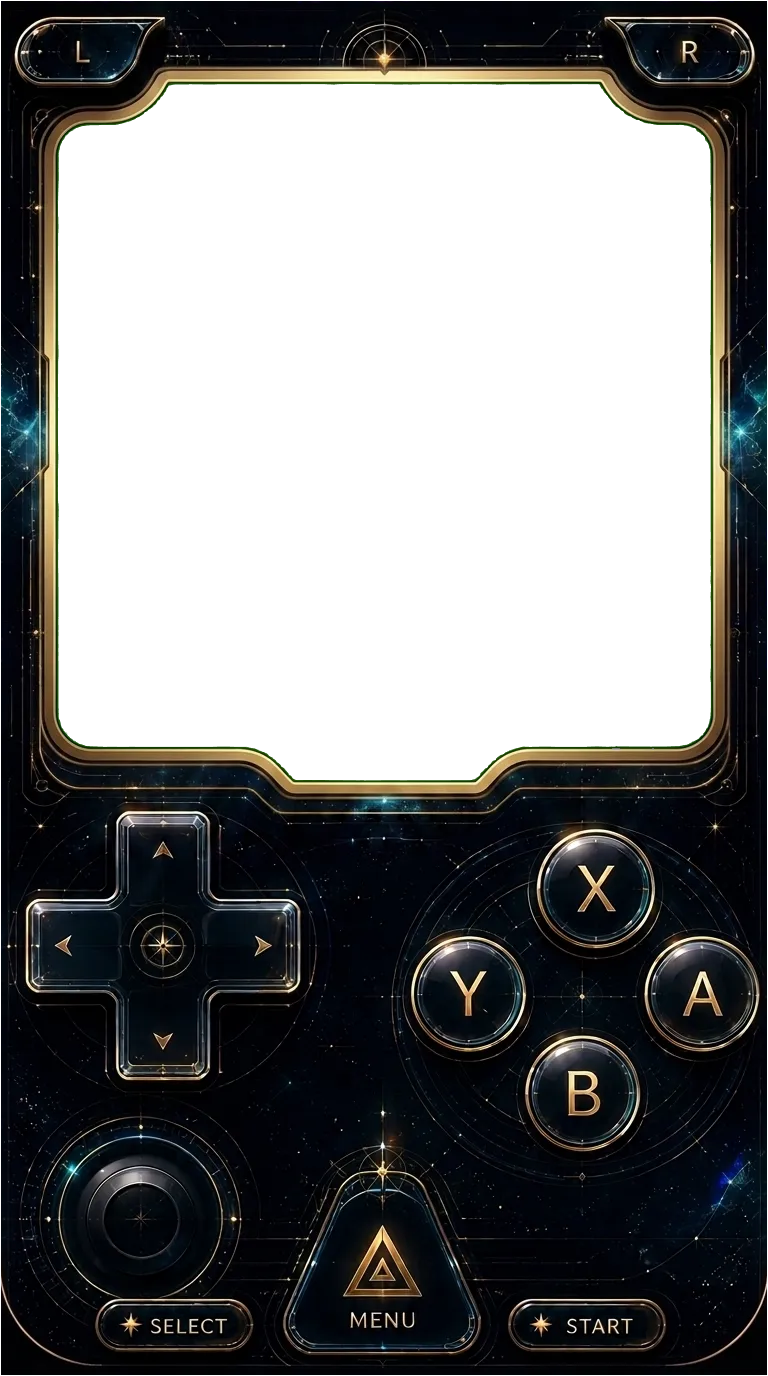
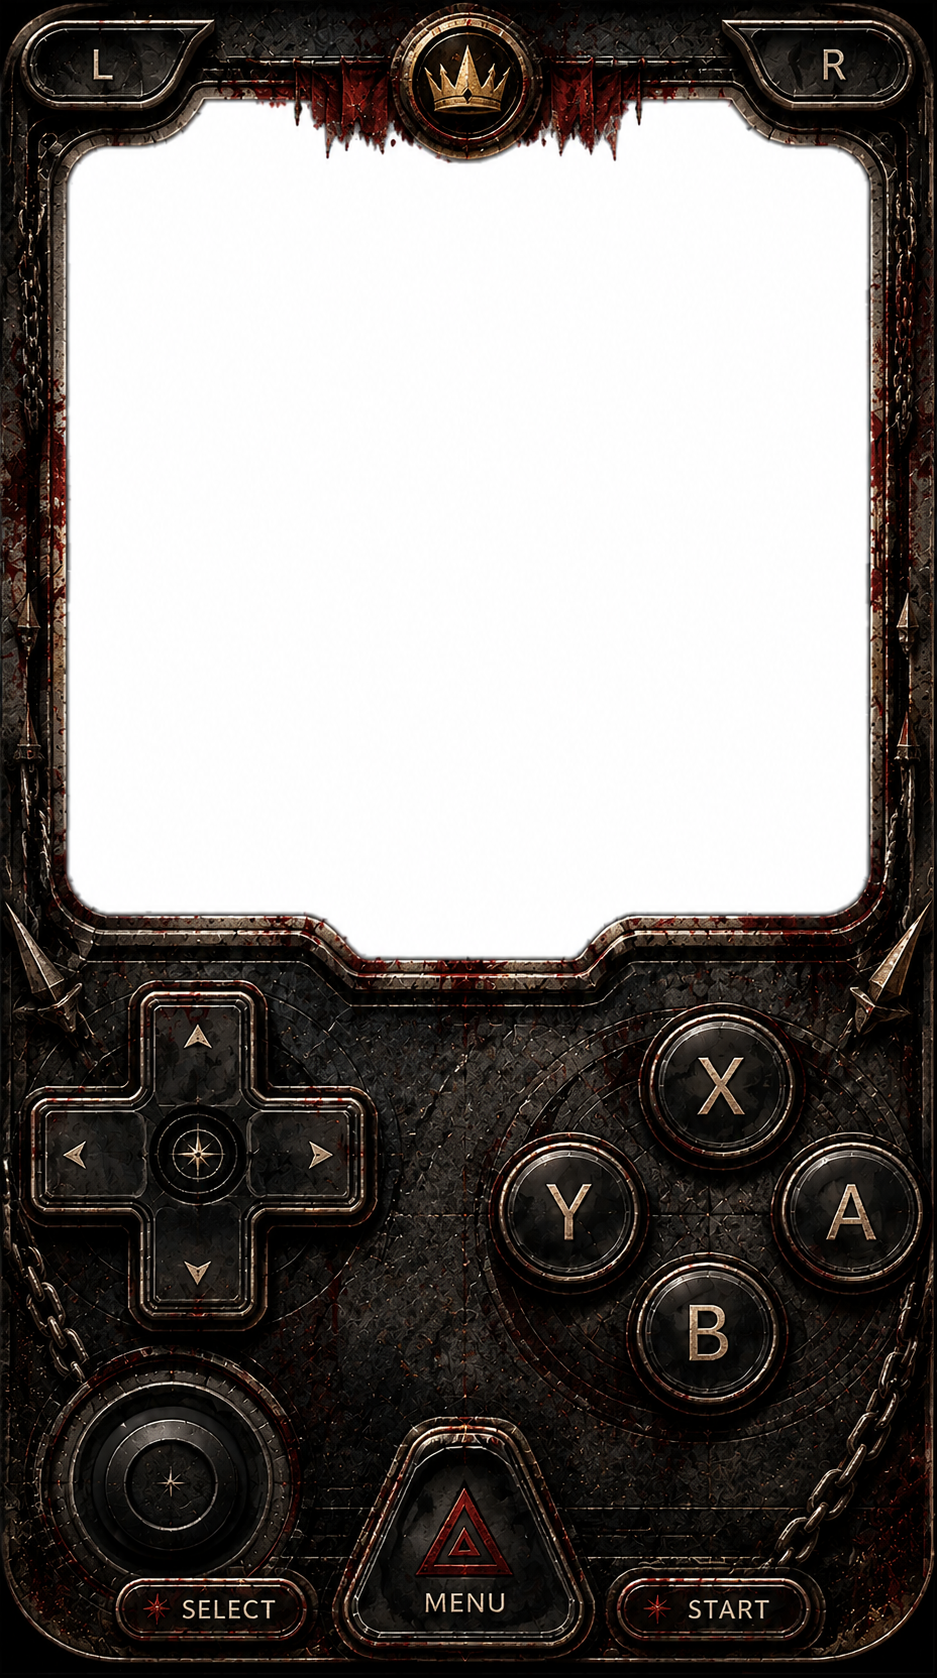
feat(realms): chassis goes fullscreen-fixed during gameplay (feels like a handheld)
User feedback: 'the controller should remain static to the page. it
should feel like holding the mobile game device, not scrolling down
a web page.'

NEW themed controller_frame.png from user (2MB, fresh art) is in
place at v6realms/ — same 768x1376 dimensions + button positions
keep all hotzone CSS calibrations valid, just new visuals.

CHASSIS LOCK
- New body.in-game class: when set, the chassis becomes
  position:fixed inset:0 covering the full viewport, body
  overflow:hidden locks page scroll, nav + footer-note hidden.
- Uses 100dvh / 100dvw (dynamic viewport units) so iOS Safari's
  collapsing URL bar doesn't crop the chassis at the bottom.
- .device-chassis sizing already scales to viewport — when in-game,
  it now scales against dvh instead of vh for consistent height
  through Safari toolbar transitions.

WIRED INTO ALL MODE TRANSITIONS
- startAdventure(): adds .in-game when entering Adventure game.
- goTournamentFight(): adds .in-game when entering Tournament fight.
- goTitle() / goAdventureStart() / goTournamentVs() /
  goTournamentSelect(): each removes .in-game on exit, restoring
  the normal page scroll and showing nav again.

Net effect: title and menus look like a normal scrollable page; the
moment you enter Adventure or a Tournament fight, the handheld
chassis takes over the entire viewport and stays locked there until
you back out via the Menu hotzone or the Quit button.

Changed region(s): [[0.0, 0.0, 1.0, 1.0]]

diff --git a/realms.html b/realms.html
@@ -317,8 +317,8 @@
     /* ============ V4-style device chassis (shared by Adventure + Tournament fight) ============
        Portrait 768x1376 handheld with controller_frame.png overlay. The game canvas
        fills the screen-cutout bbox; hotzones overlay each on-screen button to capture
-       virtual gamepad taps. Mirrors Expedition (P4)'s chassis pattern for visual unity
-       across the AOV Saga site. */
+       virtual gamepad taps. When body.in-game is set, the chassis goes fullscreen-
+       fixed so it feels like holding a physical device (no page scroll, no nav). */
     .device {
       position: relative;
       width: 100%;
@@ -328,11 +328,31 @@
       background: transparent;
       overflow: hidden;
     }
+    body.in-game {
+      overflow: hidden;
+      height: 100vh;
+      height: 100dvh;
+      background: radial-gradient(ellipse at top, #1c1432 0%, var(--void) 75%);
+    }
+    body.in-game .nav,
+    body.in-game .footer-note { display: none !important; }
+    body.in-game .app { max-width: none; padding: 0; margin: 0; height: 100vh; height: 100dvh; }
+    body.in-game .device {
+      position: fixed;
+      inset: 0;
+      width: 100vw; height: 100vh;
+      width: 100dvw; height: 100dvh;
+      max-width: none;
+    }
     .device-chassis {
       position: relative;
-      width: min(94vw, calc(86vh * 768 / 1376));
+      width: min(96vw, calc(96vh * 768 / 1376));
       aspect-ratio: 768 / 1376;
       overflow: hidden;
+    }
+    /* When in-game, use dvh so iOS Safari's collapsing URL bar doesn't crop the chassis. */
+    body.in-game .device-chassis {
+      width: min(96vw, calc(96dvh * 768 / 1376));
     }
     .device-chassis::after {
       content: '';
@@ -888,6 +908,7 @@ $('btn-mode-tournament').onclick = () => goTournamentVs();
 // ============ Adventure flow ============
 function goAdventureStart() {
   state.mode = 'adventure';
+  document.body.classList.remove('in-game');
   showAll({
     'title-screen': false,
     'adv-start-screen': true,
@@ -905,6 +926,7 @@ $('btn-adv-quit').onclick = () => goTitle();
 function goTournamentVs() {
   state.mode = 'tournament-vs';
   state.tournament = { vsMode: null, step: 'p1', p1: null, p2: null };
+  document.body.classList.remove('in-game');
   showAll({
     'title-screen': false,
     'adv-start-screen': false,
@@ -923,6 +945,7 @@ function goTournamentSelect() {
   state.tournament.step = 'p1';
   state.tournament.p1 = null;
   state.tournament.p2 = null;
+  document.body.classList.remove('in-game');
   showAll({
     'title-screen': false,
     'adv-start-screen': false,
@@ -1103,6 +1126,7 @@ $('btn-select-confirm').onclick = () => {
 // ============ Tournament Fight (placeholder stage) ============
 function goTournamentFight() {
   state.mode = 'tournament-fight';
+  document.body.classList.add('in-game');  // chassis takes over the viewport
   showAll({
     'title-screen': false,
     'adv-start-screen': false,
@@ -1272,6 +1296,7 @@ const LEVEL_1 = [
 
 function startAdventure() {
   state.mode = 'adventure-game';
+  document.body.classList.add('in-game');  // chassis takes over the viewport
   showAll({
     'title-screen': false,
     'adv-start-screen': false,
@@ -1530,6 +1555,7 @@ function drawSolionStylized(ctx, x, y, w, h, facing, onGround, walkPhase) {
 function goTitle() {
   state.mode = null;
   state.adventure = null;
+  document.body.classList.remove('in-game');  // restore page scroll + nav
   showAll({
     'title-screen': true,
     'adv-start-screen': false,
